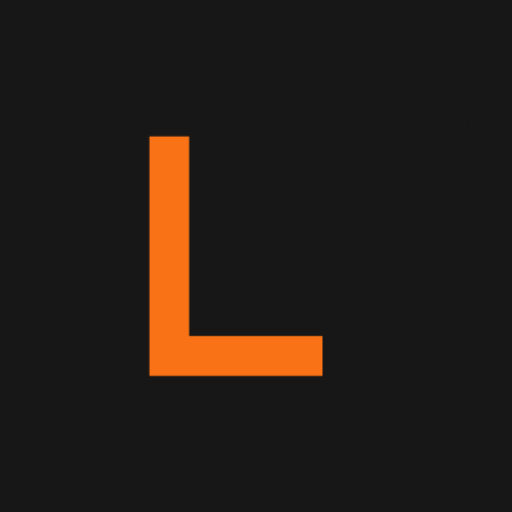
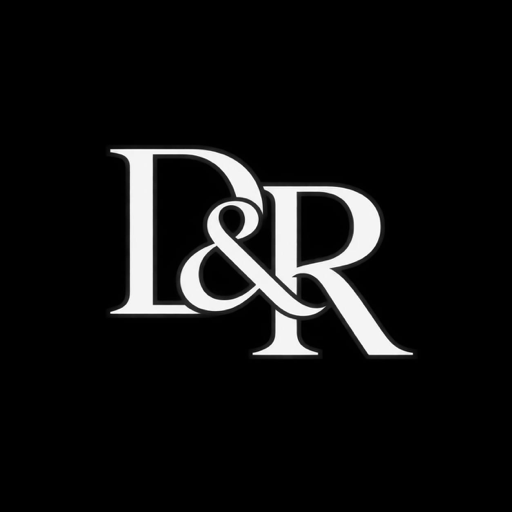
feat: ganti identitas aplikasi menjadi D&R GadgetCare

Changed region(s): [[0.2188, 0.25, 0.8125, 0.75]]

diff --git a/src/pages/public/landing.tsx b/src/pages/public/landing.tsx
@@ -5,6 +5,7 @@ import { getSetting } from "@/db/settings";
 import { isCloud } from "@/db/supabase";
 import { rp } from "@/lib/format";
 import { waLink } from "@/lib/wa";
+import { BRAND_NAME, storeDisplayName } from "@/lib/brand";
 import {
   ArrowDown,
   ArrowRight,
@@ -25,7 +26,7 @@ import { Link } from "react-router-dom";
 
 export function useStoreProfile() {
   const [s, setS] = useState({
-    name: "Lumen Service",
+    name: BRAND_NAME,
     tagline: "",
     address: "",
     phone: "",
@@ -39,7 +40,7 @@ export function useStoreProfile() {
         await Promise.all(["storeName", "storeTagline", "storeAddress", "storePhone", "storeHours"].map(async (key) => [key, await getSetting(key)])),
       );
       if (!cancelled) setS({
-        name: p.storeName || "Lumen Service",
+        name: storeDisplayName(p.storeName),
         tagline: p.storeTagline || "",
         address: p.storeAddress || "",
         phone: p.storePhone || "",
@@ -63,9 +64,9 @@ export function PublicNav({ active }: { active: "home" | "katalog" | "cek"; }) {
   return (
     <header className="sticky top-0 z-30 border-b border-brand-950/8 bg-slate-50/95 backdrop-blur-xl">
       <div className="mx-auto flex max-w-[1200px] flex-wrap items-center justify-between gap-x-6 px-5 sm:px-8">
-        <Link to="/" aria-label="Lumen Service — beranda" className="flex min-h-[72px] items-center gap-2.5">
+        <Link to="/" aria-label={`${BRAND_NAME} — beranda`} className="flex min-h-[72px] items-center gap-2.5">
           <BrandMark className="size-9 rounded-xl text-lg" />
-          <span className="text-[15px] font-bold tracking-tight text-brand-950">Lumen <span className="font-normal">Service</span></span>
+          <span className="text-[15px] font-bold tracking-tight text-brand-950">{BRAND_NAME}</span>
         </Link>
         <Link to="/app/login" className="inline-flex min-h-11 items-center gap-1.5 text-xs font-medium text-slate-500 hover:text-brand-950 md:order-3">Area staf <ArrowUpRight className="size-3.5" /></Link>
         <nav aria-label="Navigasi publik" className="order-3 -mx-1 mb-3 grid w-[calc(100%+0.5rem)] grid-cols-3 gap-1 rounded-2xl border border-brand-950/6 bg-white/80 p-1 text-xs md:order-2 md:mb-0 md:flex md:w-auto md:border-0 md:bg-transparent md:text-[13px]">
@@ -86,7 +87,7 @@ export function PublicFooter() {
       <div className="mx-auto max-w-[1200px] px-5 pb-6 pt-10 sm:px-8 sm:pt-12">
         <div className="flex flex-col justify-between gap-7 border-b border-white/10 pb-8 sm:flex-row sm:items-start">
           <div>
-            <Link to="/" className="inline-flex items-center gap-2.5"><BrandMark className="size-9 rounded-xl text-lg" /><span className="text-base font-semibold tracking-tight">Lumen <span className="font-normal text-white/75">Service</span></span></Link>
+            <Link to="/" className="inline-flex items-center gap-2.5"><BrandMark className="size-9 rounded-xl" /><span className="text-base font-semibold tracking-tight">{BRAND_NAME}</span></Link>
             <p className="mt-4 max-w-xs text-sm leading-relaxed text-white/65">Teman untuk urusan servis dan pilihan HP Anda.</p>
           </div>
           <nav aria-label="Tautan footer" className="flex flex-wrap gap-x-6 gap-y-1 text-xs text-white/75">
@@ -96,7 +97,7 @@ export function PublicFooter() {
           </nav>
         </div>
         <div className="flex flex-col justify-between gap-2 pt-6 text-[11px] text-white/55 sm:flex-row">
-          <p>© {new Date().getFullYear()} Lumen Service.</p>
+          <p>© {new Date().getFullYear()} {BRAND_NAME}.</p>
           <p>Servis HP · Jual beli HP second</p>
         </div>
       </div>
@@ -230,7 +231,7 @@ function ServiceIllustration() {
       <div className="absolute left-1/2 top-7 h-[332px] w-[194px] -translate-x-1/2 rotate-[-7deg] rounded-[34px] border-[5px] border-brand-800 bg-brand-950 p-1.5 shadow-[12px_20px_45px_-15px_rgba(0,0,0,.35)] sm:top-8 sm:h-[370px] sm:w-[216px] sm:rounded-[38px] lg:top-12 lg:h-[394px] lg:w-[228px]">
         <div className="relative flex h-full flex-col overflow-hidden rounded-[24px] bg-slate-50 px-4 pb-4 pt-6 sm:rounded-[28px]">
           <div className="absolute left-1/2 top-2 h-3.5 w-16 -translate-x-1/2 rounded-full bg-brand-950" />
-          <div className="mt-2 flex items-center justify-between"><span className="text-[9px] font-bold tracking-tight">Lumen Service</span><span className="size-1.5 rounded-full bg-brand-500" /></div>
+          <div className="mt-2 flex items-center justify-between gap-2"><span className="text-[9px] font-bold tracking-tight">{BRAND_NAME}</span><span className="size-1.5 shrink-0 rounded-full bg-brand-500" /></div>
           <p className="mt-6 text-[8px] font-medium text-slate-500">Perangkat Anda, kami bantu rawat.</p>
           <p className="mt-2 text-[20px] font-semibold leading-tight tracking-tight text-brand-950">Kembali<br />terhubung.</p>
           <div className="relative my-4 flex flex-1 items-center justify-center rounded-[20px] bg-slate-100">

diff --git a/src/pages/auth/login.tsx b/src/pages/auth/login.tsx
@@ -1,6 +1,7 @@
 import { hashPin, newSalt } from "@/auth/pin";
 import { useSession } from "@/auth/session";
 import { BrandMark } from "@/components/brand";
+import { BRAND_NAME } from "@/lib/brand";
 import { Button } from "@/components/ui/button";
 import { Field, Input } from "@/components/ui/field";
 import { Sheet } from "@/components/ui/sheet";
@@ -78,8 +79,8 @@ export function LoginPage() {
   return (
     <div className="flex min-h-dvh items-center justify-center bg-slate-50 p-5 lg:p-8">
       <div className="mx-auto grid w-full max-w-[1120px] gap-8 lg:min-h-[650px] lg:grid-cols-[1.1fr_1fr]">
-        <section className="hidden flex-col rounded-[32px] bg-brand-950 p-10 text-white lg:flex xl:p-12" aria-label="Lumen Service">
-          <div className="flex items-center gap-3"><BrandMark /><p className="text-lg font-semibold tracking-tight">Lumen <span className="font-normal text-white/70">Service</span></p></div>
+        <section className="hidden flex-col rounded-[32px] bg-brand-950 p-10 text-white lg:flex xl:p-12" aria-label={BRAND_NAME}>
+          <div className="flex items-center gap-3"><BrandMark /><p className="text-lg font-semibold tracking-tight">{BRAND_NAME}</p></div>
           <div className="my-auto py-12">
             <p className="text-[10px] font-semibold uppercase tracking-[.18em] text-accent-400">Ruang kerja toko Anda</p>
             <h2 className="mt-5 text-[42px] font-semibold leading-[1.15] tracking-[-.05em]">Lebih teratur.<br /><span className="text-accent-400">Lebih mudah dilayani.</span></h2>
@@ -92,11 +93,11 @@ export function LoginPage() {
               ].map(({ Icon, title, hint }) => <div key={title} className="flex items-center gap-3 rounded-2xl border border-white/10 bg-white/[.04] p-3.5"><span className="flex size-10 shrink-0 items-center justify-center rounded-xl bg-white/[.06] text-accent-400"><Icon className="size-[18px]" /></span><div><p className="text-[13px] font-semibold">{title}</p><p className="mt-1 text-[11px] text-white/45">{hint}</p></div></div>)}
             </div>
           </div>
-          <p className="text-[10px] text-white/35">Lumen Service · Sistem operasional konter</p>
+          <p className="text-[10px] text-white/35">{BRAND_NAME} · Sistem operasional konter</p>
         </section>
         <div className="flex items-center justify-center py-6 lg:py-10">
         <div className="w-full max-w-[390px]">
-          <div className="mb-8 flex items-center justify-center gap-2.5 lg:hidden"><BrandMark /><p className="text-lg font-semibold tracking-tight text-brand-950">Lumen <span className="font-normal">Service</span></p></div>
+          <div className="mb-8 flex items-center justify-center gap-2.5 lg:hidden"><BrandMark /><p className="text-lg font-semibold tracking-tight text-brand-950">{BRAND_NAME}</p></div>
           <p className="text-[10px] font-semibold uppercase tracking-[.17em] text-brand-600">Akun staf</p>
           <h1 className="mt-3 text-[29px] font-semibold tracking-[-.045em] text-brand-950">Masuk ke ruang kerja</h1>
           <p className="mt-2 text-sm leading-relaxed text-slate-500">Selamat datang kembali. Gunakan akun toko Anda untuk melanjutkan.</p>

diff --git a/src/pages/menu.tsx b/src/pages/menu.tsx
@@ -2,6 +2,7 @@ import { canSeeMoney } from "@/auth/roles";
 import { useSession, useUser } from "@/auth/session";
 import { PageBody, PageHeader, ROLE_LABEL } from "@/components/layout/app-shell";
 import { db } from "@/db/db";
+import { BRAND_NAME } from "@/lib/brand";
 import { useLiveQuery } from "dexie-react-hooks";
 import {
   BarChart3,
@@ -57,7 +58,7 @@ export function MenuPage() {
     <>
       <div className="mobile-root-page lg:hidden">
         <PageBody>
-          <div className="pb-1 pt-2"><p className="text-[10px] font-semibold uppercase tracking-[0.18em] text-slate-500">Lumen Service</p><h1 className="mt-1 text-[27px] font-bold tracking-tight text-brand-950">Ruang kerja</h1></div>
+          <div className="pb-1 pt-2"><p className="text-[10px] font-semibold uppercase tracking-[0.18em] text-slate-500">{BRAND_NAME}</p><h1 className="mt-1 text-[27px] font-bold tracking-tight text-brand-950">Ruang kerja</h1></div>
           <div className="flex items-center gap-4 rounded-[28px] bg-brand-950 p-5 text-white">
             <div className="flex size-14 shrink-0 items-center justify-center rounded-[20px] bg-accent-500 text-2xl font-bold text-brand-950">{user.name.slice(0, 1).toUpperCase()}</div>
             <div className="min-w-0"><p className="truncate text-lg font-bold tracking-tight">{user.name}</p><span className="mt-1.5 inline-flex rounded-full border border-white/15 bg-white/5 px-2.5 py-1 text-[10px] text-white/75">{ROLE_LABEL[user.role]}</span></div>
@@ -74,7 +75,7 @@ export function MenuPage() {
             </div>
           </section>)}
           <button type="button" onClick={() => { void signOut(); }} className="flex min-h-14 w-full items-center justify-center gap-2.5 rounded-[22px] border border-slate-200 bg-slate-50 px-4 py-3 text-sm font-semibold text-slate-700"><LogOut className="size-[18px]" /> Keluar dari akun</button>
-          <p className="pb-1 pt-1 text-center text-[10px] tracking-wide text-slate-500">Lumen Service · Sistem Operasional</p>
+          <p className="pb-1 pt-1 text-center text-[10px] tracking-wide text-slate-500">{BRAND_NAME} · Sistem Operasional</p>
         </PageBody>
       </div>
       <div className="hidden lg:block">
@@ -107,7 +108,7 @@ export function MenuPage() {
               </section>)}
             </div>
           </div>
-          <p className="pt-2 text-center text-[10px] tracking-wide text-slate-500">Lumen Service · Sistem Operasional</p>
+          <p className="pt-2 text-center text-[10px] tracking-wide text-slate-500">{BRAND_NAME} · Sistem Operasional</p>
         </PageBody>
       </div>
     </>

diff --git a/src/pages/pengaturan.tsx b/src/pages/pengaturan.tsx
@@ -21,6 +21,7 @@ import {
   encryptBackup,
 } from "@/lib/backup";
 import { validateBackup } from "@/lib/backup-schema";
+import { BRAND_NAME } from "@/lib/brand";
 import { USERNAME_RE, usernameSlug } from "@/lib/username";
 import { useLiveQuery } from "dexie-react-hooks";
 import { Download, KeyRound, Plus, Upload, UserX } from "lucide-react";
@@ -39,7 +40,7 @@ export function PengaturanPage() {
         {canSeeMoney(user.role) && <WaSection />}
         {canSeeMoney(user.role) && <BackupSection />}
         <p className="pb-4 text-center text-xs text-slate-300">
-          Lumen Service v0.1 — data tersimpan di perangkat ini.
+          {BRAND_NAME} v0.1 — data tersimpan di perangkat ini.
         </p>
       </PageBody>
     </>
@@ -455,7 +456,7 @@ function BackupSection() {
       const blob = new Blob([out], { type: "application/json" });
       const a = document.createElement("a");
       a.href = URL.createObjectURL(blob);
-      a.download = `lumen-backup-${new Date().toISOString().slice(0, 10)}.json`;
+      a.download = `dr-gadgetcare-backup-${new Date().toISOString().slice(0, 10)}.json`;
       a.click();
       URL.revokeObjectURL(a.href);
       await setSetting("lastBackupAt", String(Date.now()));
@@ -476,7 +477,7 @@ function BackupSection() {
     if (!file) return;
     try {
       const raw = JSON.parse(await file.text());
-      if (raw.app !== "lumen-service") throw new Error("File bukan backup Lumen");
+      if (raw.app !== "lumen-service") throw new Error(`File bukan backup ${BRAND_NAME}`);
       if (raw.enc !== 1) validateBackup(raw);
       setImportEnc(raw.enc === 1);
       setImportPass("");
@@ -563,7 +564,7 @@ function BackupSection() {
             const text = JSON.stringify(payload);
             const blob = new Blob([passphrase.trim() ? JSON.stringify(await encryptBackup(text, passphrase.trim())) : text], { type: "application/json" });
             const url = URL.createObjectURL(blob);
-            const a = document.createElement("a"); a.href = url; a.download = "lumen-sebelum-pemulihan.json"; a.click(); URL.revokeObjectURL(url);
+            const a = document.createElement("a"); a.href = url; a.download = "dr-gadgetcare-sebelum-pemulihan.json"; a.click(); URL.revokeObjectURL(url);
           } catch (e) { toast(e instanceof Error ? e.message : "Gagal mengunduh", "error"); }
         }}>Unduh salinan sebelum pemulihan terakhir</Button>
         {isCloud && <p className="text-xs text-slate-500">Pemulihan cloud dilakukan administrator dari backup database agar data server dan perangkat tetap konsisten.</p>}

diff --git a/src/components/layout/app-shell.tsx b/src/components/layout/app-shell.tsx
@@ -5,6 +5,7 @@ import { db } from "@/db/db";
 import { isCloud } from "@/db/supabase";
 import { startSync, stopSync, syncNow, useSyncStatus } from "@/db/sync";
 import { cn } from "@/lib/cn";
+import { BRAND_NAME } from "@/lib/brand";
 import { useLiveQuery } from "dexie-react-hooks";
 import {
   BarChart3,
@@ -138,7 +139,7 @@ export function AppShell() {
         <Link to="/app/beranda" className="mb-7 mt-2 flex items-center gap-2.5 px-2">
           <BrandMark />
           <div>
-            <p className="text-sm font-bold tracking-tight text-brand-950">Lumen <span className="font-normal">Service</span></p>
+            <p className="text-sm font-bold tracking-tight text-brand-950">{BRAND_NAME}</p>
             <p className="mt-0.5 text-[10px] text-slate-400">Ruang kerja toko</p>
           </div>
         </Link>
@@ -261,7 +262,7 @@ export function PageHeader({
       <div className="page-header-inner flex h-14 items-center gap-3 px-4 lg:px-8">
         {back && <div className="page-header-back shrink-0">{back}</div>}
         <div className="min-w-0 flex-1">
-          <p className="page-header-eyebrow"><span className="lg:hidden">Lumen Service</span><span className="hidden lg:inline">Ruang kerja · Lumen Service</span></p>
+          <p className="page-header-eyebrow"><span className="lg:hidden">{BRAND_NAME}</span><span className="hidden lg:inline">Ruang kerja · {BRAND_NAME}</span></p>
           <h1 className="page-header-title truncate text-base font-bold lg:text-lg">{title}</h1>
           {subtitle && <p className="mt-1 hidden text-xs text-slate-500 lg:block">{subtitle}</p>}
         </div>

diff --git a/src/pages/auth/setup.tsx b/src/pages/auth/setup.tsx
@@ -8,6 +8,7 @@ import { db, uid } from "@/db/db";
 import { setSetting } from "@/db/settings";
 import type { User } from "@/db/types";
 import { USERNAME_RE, usernameSlug } from "@/lib/username";
+import { BRAND_NAME } from "@/lib/brand";
 import { useLiveQuery } from "dexie-react-hooks";
 import { useState } from "react";
 import { Navigate, useNavigate } from "react-router-dom";
@@ -16,7 +17,7 @@ export function SetupPage() {
   const nav = useNavigate();
   const toast = useToast();
   const userCount = useLiveQuery(() => db.users.count(), []);
-  const [storeName, setStoreName] = useState("Lumen Service");
+  const [storeName, setStoreName] = useState(BRAND_NAME);
   const [storePhone, setStorePhone] = useState("");
   const [setupToken, setSetupToken] = useState("");
   const [ownerName, setOwnerName] = useState("");
@@ -146,7 +147,7 @@ export function SetupPage() {
     <div className="mx-auto flex min-h-dvh max-w-md flex-col justify-center gap-6 p-6">
       <div className="text-center">
         <BrandMark className="mx-auto mb-4 size-14 text-2xl" />
-        <h1 className="text-xl font-bold">Selamat datang di Lumen</h1>
+        <h1 className="text-xl font-bold">Selamat datang di {BRAND_NAME}</h1>
         <p className="mt-1 text-sm text-slate-500">
           Setup sekali di awal — buat akun Owner dan Head Operasional.
         </p>
@@ -233,7 +234,7 @@ export function SetupPage() {
       </div>
 
       <Button size="lg" disabled={!valid || busy} onClick={submit}>
-        Mulai Pakai Lumen
+        Mulai Pakai {BRAND_NAME}
       </Button>
     </div>
   );

diff --git a/src/pages/beranda.tsx b/src/pages/beranda.tsx
@@ -1,6 +1,8 @@
 import { canSeeMoney } from "@/auth/roles";
 import { useUser } from "@/auth/session";
 import { BackupReminder } from "@/components/backup-reminder";
+import { BrandMark } from "@/components/brand";
+import { BRAND_NAME } from "@/lib/brand";
 import { PageBody, PageHeader } from "@/components/layout/app-shell";
 import { TicketStatusTag } from "@/components/ui/status-tag";
 import { sumCash } from "@/db/cash";
@@ -67,9 +69,9 @@ export function BerandaPage() {
         <PageBody>
           <div className="flex items-center justify-between gap-3 pb-1 pt-1">
             <div className="flex items-center gap-2.5">
-              <div className="flex size-10 items-center justify-center rounded-2xl bg-accent-500 text-xl font-black text-brand-950">L<span className="text-white">.</span></div>
+              <BrandMark />
               <div>
-                <p className="text-base font-extrabold tracking-tight text-brand-950">Lumen<span className="font-normal"> Service</span></p>
+                <p className="text-base font-extrabold tracking-tight text-brand-950">{BRAND_NAME}</p>
                 <p className="mt-0.5 text-[11px] text-slate-500">{new Date().toLocaleDateString("id-ID", { timeZone: "Asia/Makassar", weekday: "long", day: "numeric", month: "long" })}</p>
               </div>
             </div>

diff --git a/src/db/settings.ts b/src/db/settings.ts
@@ -1,6 +1,7 @@
 import { logAudit } from "./audit";
 import { db, isSharedSetting, uid } from "./db";
 import { operation } from "./operations";
+import { BRAND_NAME, storeDisplayName } from "@/lib/brand";
 import type { TicketStatus, User } from "./types";
 
 export const DEFAULT_WA_TEMPLATES: Record<TicketStatus, string> = {
@@ -21,7 +22,7 @@ export const DEFAULT_WA_TEMPLATES: Record<TicketStatus, string> = {
 };
 
 const DEFAULTS: Record<string, string> = {
-  storeName: "Lumen Service",
+  storeName: BRAND_NAME,
   storeTagline: "Servis HP & Jual Beli HP Second",
   storeAddress: "",
   storePhone: "",
@@ -34,7 +35,8 @@ const DEFAULTS: Record<string, string> = {
 
 export async function getSetting(key: string): Promise<string> {
   const row = await db.settings.get(key);
-  return row?.value ?? DEFAULTS[key] ?? "";
+  const value = row?.value ?? DEFAULTS[key] ?? "";
+  return key === "storeName" ? storeDisplayName(value) : value;
 }
 
 export async function setSetting(key: string, value: string) {

diff --git a/vite.config.ts b/vite.config.ts
@@ -4,6 +4,7 @@ import tailwindcss from "@tailwindcss/vite";
 import { VitePWA } from "vite-plugin-pwa";
 import { fileURLToPath } from "node:url";
 import { publicCloudEnv } from "./scripts/public-cloud-env";
+import { BRAND_NAME } from "./src/lib/brand";
 
 // Port 3000: rentang 5041-5440 & 5549-5748 diblokir Windows di mesin dev ini.
 export default defineConfig(({ mode }) => {
@@ -18,10 +19,11 @@ export default defineConfig(({ mode }) => {
     tailwindcss(),
     VitePWA({
       registerType: "prompt",
-      includeAssets: ["icon.svg", "apple-touch-icon.png"],
+      includeAssets: ["icon.png", "apple-touch-icon.png", "brand-logo.jpg"],
       manifest: {
-        name: "Lumen Service",
-        short_name: "Lumen",
+        name: BRAND_NAME,
+        short_name: BRAND_NAME,
+        lang: "id",
         description:
           "Sistem operasional konter servis HP & jual beli HP second",
         start_url: "/app",

diff --git a/index.html b/index.html
@@ -2,15 +2,15 @@
 <html lang="id">
   <head>
     <meta charset="UTF-8" />
-    <link rel="icon" type="image/svg+xml" href="/icon.svg" />
+    <link rel="icon" type="image/png" sizes="64x64" href="/icon.png" />
     <link rel="apple-touch-icon" href="/apple-touch-icon.png" />
     <meta name="viewport" content="width=device-width, initial-scale=1.0, viewport-fit=cover" />
     <meta name="theme-color" content="#171717" />
     <meta
       name="description"
-      content="Lumen Service — servis HP & jual beli HP second terpercaya."
+      content="D&amp;R GadgetCare — servis HP & jual beli HP second terpercaya."
     />
-    <title>Lumen Service</title>
+    <title>D&amp;R GadgetCare</title>
   </head>
   <body>
     <div id="root"></div>

diff --git a/src/pages/servis/nota.tsx b/src/pages/servis/nota.tsx
@@ -1,4 +1,5 @@
 import { Button } from "@/components/ui/button";
+import { BrandMark } from "@/components/brand";
 import { TICKET_STATUS_LABEL } from "@/components/ui/status-tag";
 import { db } from "@/db/db";
 import { getSetting } from "@/db/settings";
@@ -162,6 +163,7 @@ export function NotaPrintPage() {
 
       <div className="nota-print mx-auto w-[58mm] rounded-lg bg-white p-3 font-mono text-[11px] leading-relaxed shadow">
         <div className="text-center">
+          <BrandMark className="mb-2 size-12 rounded-none" />
           <p className="text-sm font-bold uppercase">{store.name}</p>
           {store.address && <p>{store.address}</p>}
           {store.phone && <p>WA: {store.phone}</p>}

diff --git a/src/components/brand.tsx b/src/components/brand.tsx
@@ -1,5 +1,9 @@
 import { cn } from "@/lib/cn";
 
 export function BrandMark({ className }: { className?: string; }) {
-  return <span aria-hidden className={cn("inline-flex size-10 shrink-0 items-center justify-center rounded-2xl bg-accent-500 text-xl font-black tracking-tight text-brand-950", className)}>L<span className="text-white">.</span></span>;
+  return (
+    <span aria-hidden="true" className={cn("inline-flex size-10 shrink-0 items-center justify-center overflow-hidden rounded-2xl bg-black", className)}>
+      <img src="/brand-logo.jpg" alt="" width={1254} height={1254} className="size-full scale-[1.35] object-contain" />
+    </span>
+  );
 }
